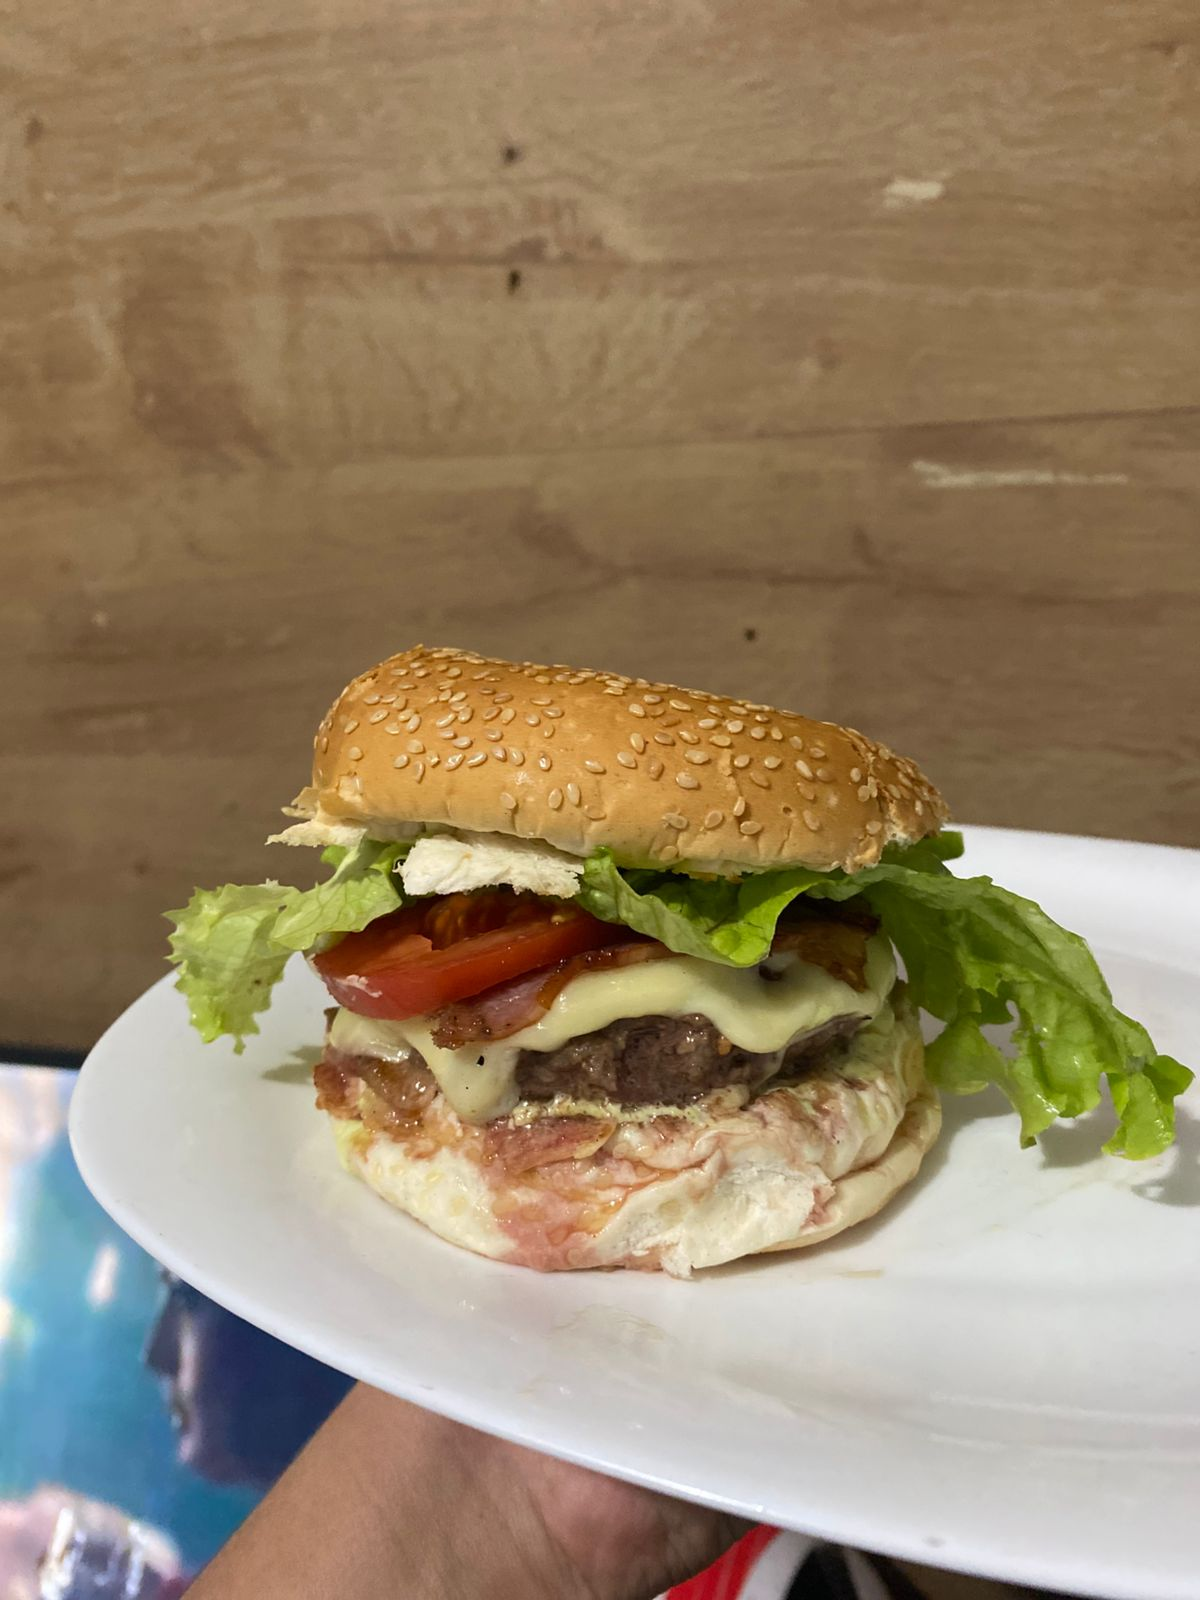
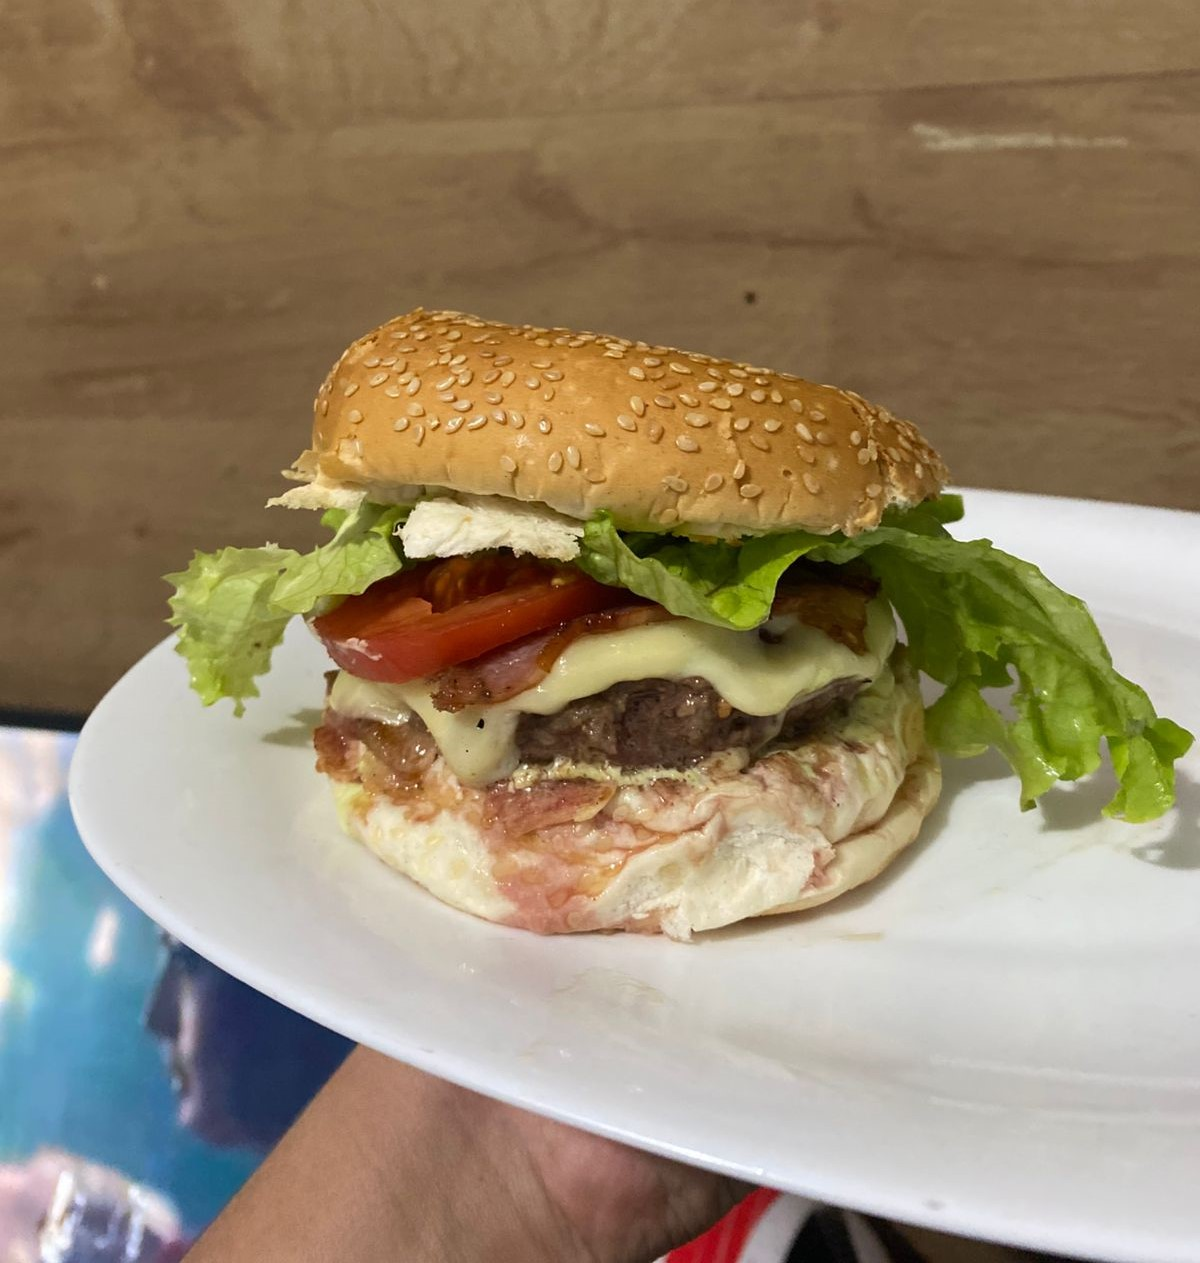
feat: rename website

diff --git a/index.html b/index.html
@@ -52,15 +52,6 @@
       </div>
     </section>
 
-    <section class="features">
-      <div class="container features__grid">
-        <article class="feature-card">
-          <strong>Pizzas</strong>
-          <span>Todas as pizzas têm o mesmo padrão de 35 cm.</span>
-        </article>
-      </div>
-    </section>
-
     <section class="section" id="cardapio">
       <div class="container">
         <header class="section__header">
@@ -303,7 +294,7 @@
 
   <footer class="footer">
     <div class="container">
-      <p>© <span id="currentYear"></span> <span data-store-name>Verona Delivery</span> — Cardápio on-line.</p>
+      <p>© <span id="currentYear"></span> <span data-store-name>Estação do Sabor</span> — Cardápio on-line.</p>
     </div>
   </footer>
 

diff --git a/assets/js/script.js b/assets/js/script.js
@@ -1,6 +1,6 @@
 document.addEventListener("DOMContentLoaded", () => {
   const CONFIG = {
-    storeName: "Verona Delivery",
+    storeName: "Estação do Sabor",
     slogan: "Sabor que conquista!",
     whatsappNumber: "5559999999999", // coloque aqui o número real com DDI + DDD
     whatsappDisplay: "(53) 99999-9999",